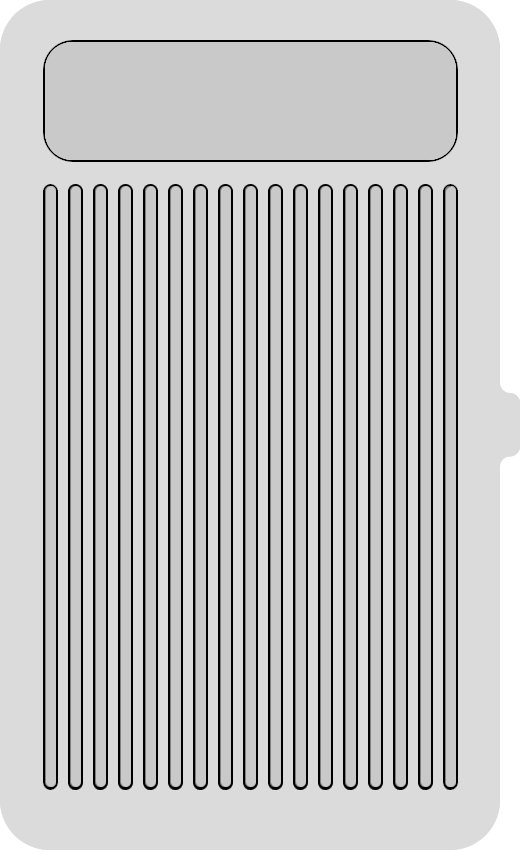
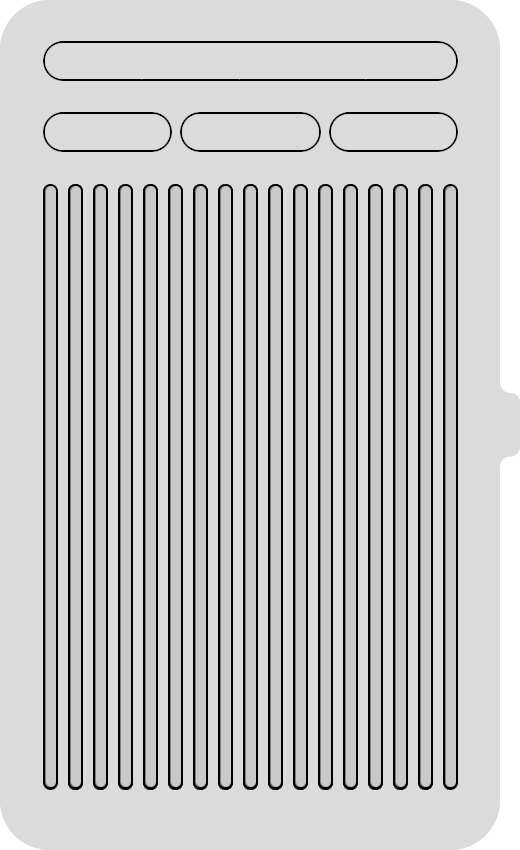
Add glass window

diff --git a/src/assets/room_devices/slave_suitcase/slave_suitcase.asset.ts b/src/assets/room_devices/slave_suitcase/slave_suitcase.asset.ts
@@ -89,13 +89,6 @@ DefineRoomDeviceAsset({
 					id: 'closed',
 					name: 'Closed',
 					properties: {
-						slotProperties: {
-							inside: {
-								effects: {
-									blind: 10,
-								},
-							},
-						},
 						stateFlags: {
 							provides: ['closed_door'],
 						},
@@ -104,6 +97,27 @@ DefineRoomDeviceAsset({
 				{
 					id: 'open',
 					name: 'Open',
+					default: true,
+				},
+			],
+		},
+		door_type: {
+			type: 'typed',
+			name: 'Door Type',
+			staticConfig: { slotName: 'inside' },
+			variants: [
+				{
+					id: 'opaque',
+					name: 'Opaque',
+					properties: {
+						stateFlags: {
+							provides: ['blindness'],
+						},
+					},
+				},
+				{
+					id: 'translucent',
+					name: 'Translucent Window',
 					default: true,
 				},
 			],
@@ -262,6 +276,18 @@ DefineRoomDeviceAsset({
 								'Crotch_protruding',
 							],
 							requires: ['Vulva_spread', '!Vulva_cover'],
+						},
+					},
+				},
+			},
+		},
+		{
+			requiredFlags: ['closed_door', 'blindness'],
+			properties: {
+				slotProperties: {
+					inside: {
+						effects: {
+							blind: 10,
 						},
 					},
 				},
